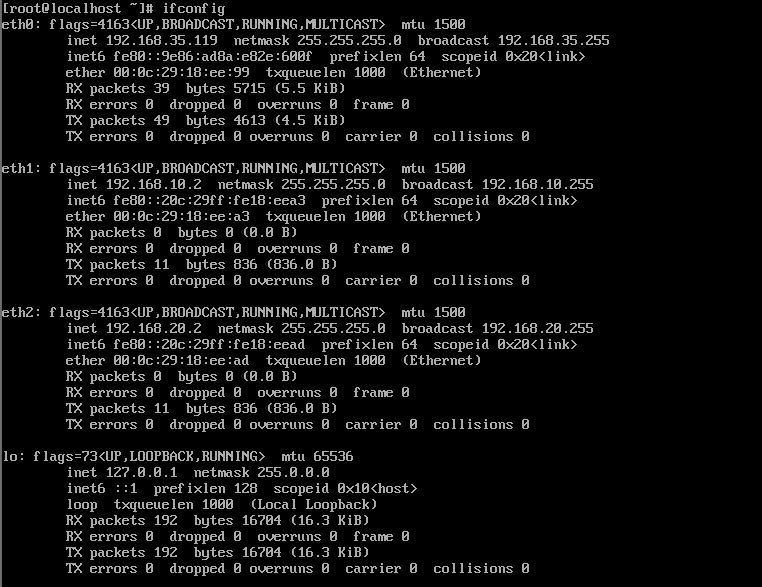
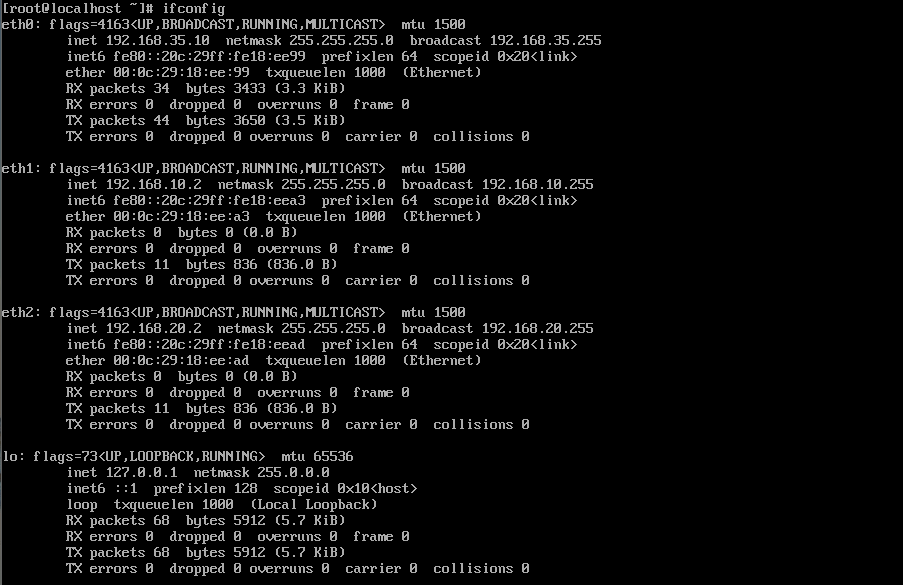
iptables3 포스팅

diff --git a/_posts/2021-02-10-iptables-3.md b/_posts/2021-02-10-iptables-3.md
@@ -1,0 +1,112 @@
+---
+layout: post
+title: Firewall - iptables (3)
+date: 2021-02-10 11:00:00 +0900
+category: Network
+---
+
+
+# Firewall - iptables (3)
+
+#### 실습 환경 구축 - 내부zone과 외부zone 설정하기
+
+<br/>
+
+> 방화벽이란 일련의 보안정책을 통해 네트워크를 보호하고 접근통제하는 보안 시스템이다. 
+>
+> 방화벽은 일반적으로 내부 네트워크와 외부 네트워크 간의 장벽을 구성한다.
+
+<br/>
+
+DMZ를 구성하기 위해 Kali Linux를 다운받아 설치한다.
+
+설치가 완료되면 실행시킨 후 아이디와 비밀번호를 kali로 로그인한다. 
+
+![iptables3_1](/public/img/iptables3_1.PNG)
+
+<br/>
+
+하지만 root가 아니면 명령어 실행 시 매번 sudo를 입력해야 하는 번거로움이 있으므로 우리는 root를 사용하기로 한다.
+
+터미널을 실행시킨 후 원하는 비밀번호를 입력하고 재부팅한다.
+
+```shell
+sudo passwd root
+init 6
+```
+
+![iptables3_2](/public/img/iptables3_2.PNG)
+
+<br/>
+
+root로 로그인 후, IP주소를 확인해보자.
+
+![iptables3_3](/public/img/iptables3_3.PNG)
+
+<br/>
+
+이번에도 고정IP로 설정한 후 재시작한다.
+
+```shell
+vi /etc/network/interfaces
+
+auto eth0
+iface eth0 inet static
+address 192.168.10.150
+gateway 192.168.10.2
+netmask 255.255.255.0
+dns-nameserver 8.8.8.8 168.126.63.1
+```
+
+<br/>
+
+IP주소가 제대로 설정되었는지 확인한다.
+
+![iptables3_4](/public/img/iptables3_4.PNG)
+
+<br/>
+
+방화벽으로 ping을 보내면 잘 가지만, 외부로 보내면 ping이 가지 않는다. 그 이유는 아직 방화벽에서 아무 정책도 설정 하지 않았기 때문이다.
+
+```shell
+ping 192.168.35.10	// 방화벽으로
+ping 8.8.8.8		// 외부로
+```
+
+![iptables3_5](/public/img/iptables3_5.PNG)
+
+<br/>
+
+내부zone 설정이 모두 끝났으므로 종료한 후 스냅샷을 찍어준다. (VM - Snapshot - Take snapshot)
+
+![iptables3_6](/public/img/iptables3_6.PNG)
+
+<br/>
+
+이제 외부zone 설정을 하기 위해 Network Adapter를 NAT에서 Bridged로 변경한 후 실행한다.
+
+터미널을 실행시킨 후 IP설정을 바꾸고 재시작하면 IP주소가 변경된 것을 확인할 수 있다.
+
+```shell
+vi /etc/network/interfaces
+
+auto eth0
+iface eth0 inet static
+address 192.168.35.150
+gateway 192.168.35.1
+netmask 255.255.255.0
+dns-nameserver 8.8.8.8 168.126.63.1
+```
+
+![iptables3_7](/public/img/iptables3_7.PNG)
+
+<br/>
+
+이번에는 ping이 방화벽과 외부로 모두 잘 나가는 것을 볼 수 있다. 외부zone은 방화벽과 상관없이 외부 Internet으로 갈 수 있기 때문이다.
+
+![iptables3_8](/public/img/iptables3_8.PNG)
+
+<br/>
+
+외부zone 설정이 모두 끝났으므로 종료한 후 스냅샷을 찍어준다.
+

diff --git a/_posts/2021-02-10-iptables-2.md b/_posts/2021-02-10-iptables-2.md
@@ -18,7 +18,7 @@ category: Network
 
 <br/>
 
-로그인 후, ip주소를 확인해보자.
+로그인 후, IP주소를 확인해보자.
 
 ```shell
 ip addr
@@ -78,12 +78,12 @@ crashkernel=auto net.ifnames=0
 
 ```shell
 grub2-mkconfig -o /boot/grub2/grub.cfg
-init 6	// 재부팅
+init 6	// 재시작
 ```
 
 <br/>
 
-DHCP로 IP주소를 할당받으면 유동IP로 계속해서 IP주소가 바뀌기 때문에 eth0, eth1, eth2를 고정IP로 설정해주자. 모두 작성하면 재부팅해준다.
+DHCP로 IP주소를 할당받으면 유동IP로 계속해서 IP주소가 바뀌기 때문에 eth0, eth1, eth2를 고정IP로 설정해주자. 모두 작성하면 재시작해준다.
 
 ```shell
 vi /etc/sysconfig/network-scripts/ifcfg-eth0
@@ -91,9 +91,9 @@ vi /etc/sysconfig/network-scripts/ifcfg-eth0
 DEVICE=eth0			// NIC 지정
 NAME=eth0			// NIC 이름 설정
 ONBOOT=yes			// 부팅할 때 해당 설정 활성화
-IPADDR=192.168.0.10		// IP주소 설정
+IPADDR=192.168.35.10		// IP주소 설정
 NETMASK=255.255.255.0		// 서브넷 마스크 설정
-GATEWAY=192.168.0.1		// 게이트웨이 설정
+GATEWAY=192.168.35.1		// 게이트웨이 설정
 DNS1=8.8.8.8			// DNS 서버 설정
 DNS2=168.126.63.1		// 보조 DNS 서버 설정
 ```
@@ -129,4 +129,3 @@ ifconfig
 ![iptables2_4](/public/img/iptables2_4.PNG)
 
 <br/>
-
